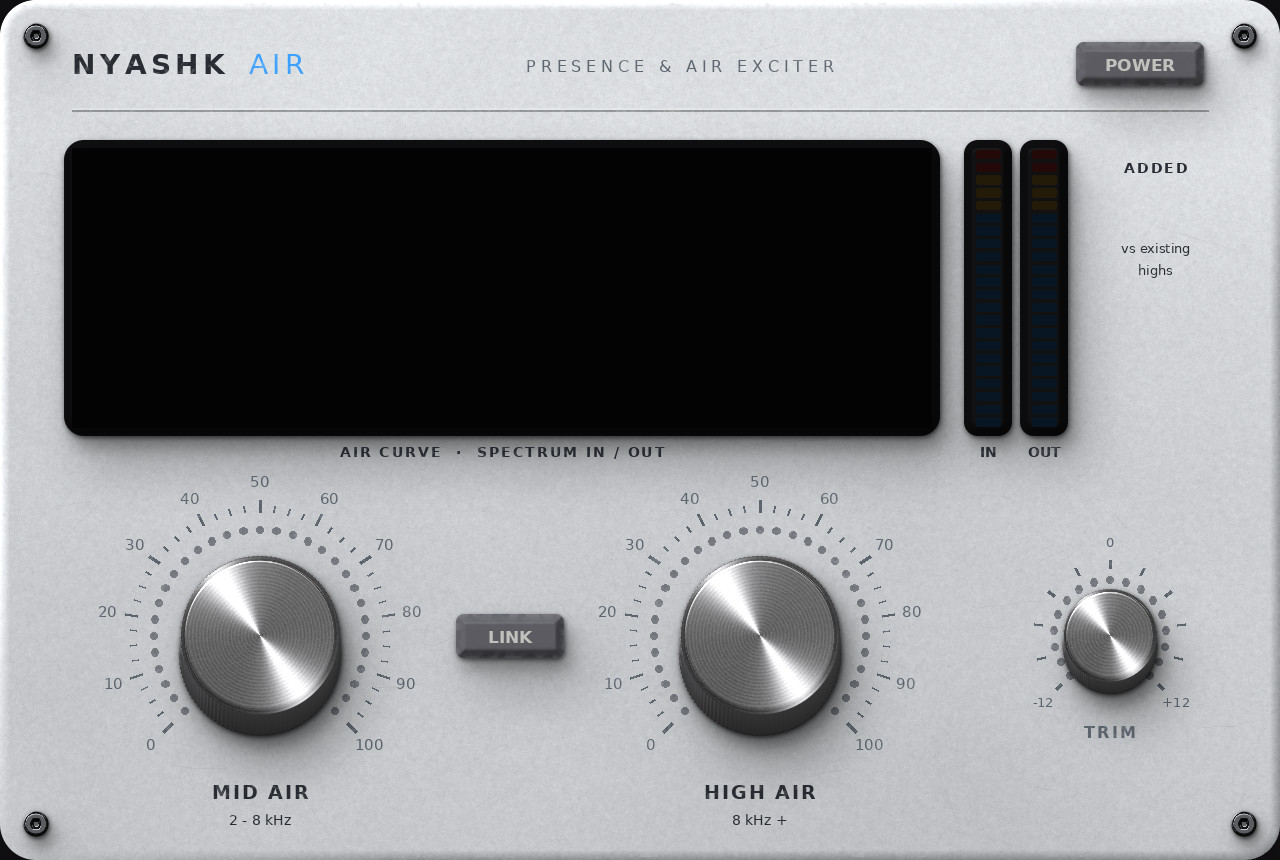
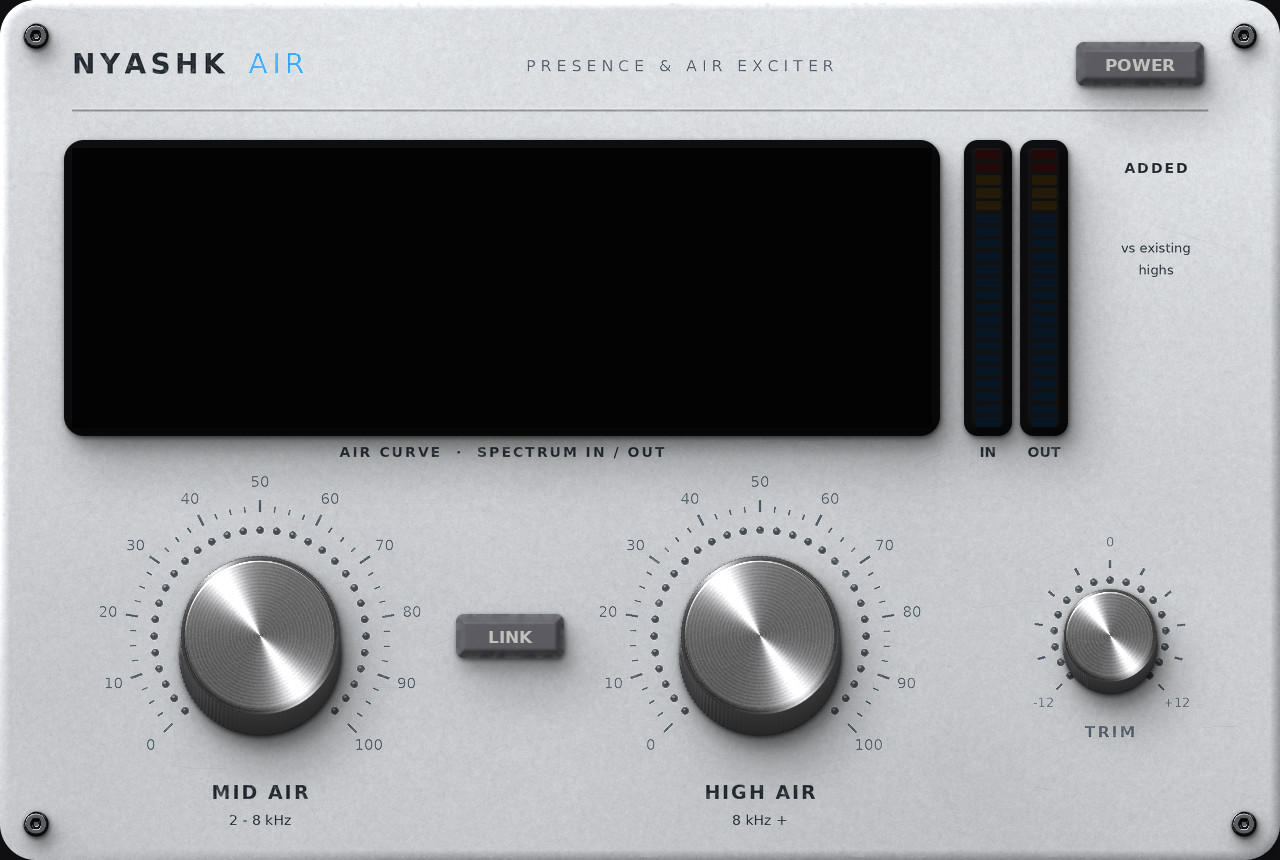
Smooth print, additive LED glow, animated lamps
Claude-Session: https://claude.ai/code/session_013jKKu2jZ6gVHt6eEoTXE3F

diff --git a/tools/hwrender.py b/tools/hwrender.py
@@ -234,7 +234,8 @@ class Panel:
         c = c * (1 - ew[..., None]) + np.array([0.78, 0.78, 0.8]) * ew[..., None]
         self.img = to_img(c * A[..., None] + np.array(bg) * (1 - A[..., None])).convert('RGBA')
         self.dr = ImageDraw.Draw(self.img)
-        self.ink_layer = Image.new('RGBA', (w, h)); self.idr = ImageDraw.Draw(self.ink_layer)
+        self.K = 2
+        self.ink_layer = Image.new('RGBA', (w * self.K, h * self.K)); self.idr = ImageDraw.Draw(self.ink_layer)
         for sx, sy in [(18, 18), (W - 18, 18), (18, H - 18), (W - 18, H - 18)]: self.put(hexscrew(14 * S), sx * S, sy * S)
     # ---- low level
     def refresh(self): self.dr = ImageDraw.Draw(self.img)
@@ -244,22 +245,28 @@ class Panel:
             self.img.alpha_composite(sh, (int(cx - sh.width / 2), int(cy - sh.height / 2)))
         self.img.alpha_composite(im, (int(cx - im.width / 2), int(cy - im.height / 2)))
     def text(self, t, x, y, size, col=None, bold=False, anchor='mm', sp=0):
-        col = col or self.ink; f = font(size * S, bold); d = self.idr; x *= S; y *= S
+        col = col or self.ink; Q = S * self.K; f = font(size * Q, bold); d = self.idr; x *= Q; y *= Q
         if sp:
-            wdt = sum(d.textlength(ch, font=f) for ch in t) + sp * S * (len(t) - 1)
+            wdt = sum(d.textlength(ch, font=f) for ch in t) + sp * Q * (len(t) - 1)
             xx = x - wdt / 2 if anchor[0] == 'm' else (x - wdt if anchor[0] == 'r' else x)
-            for ch in t: d.text((xx, y), ch, font=f, fill=col, anchor='l' + anchor[1]); xx += d.textlength(ch, font=f) + sp * S
+            for ch in t: d.text((xx, y), ch, font=f, fill=col, anchor='l' + anchor[1]); xx += d.textlength(ch, font=f) + sp * Q
         else: d.text((x, y), t, font=f, fill=col, anchor=anchor)
     def flush_ink(self):
         """silkscreen: slightly worn, with a hairline of shadow so it sits on the paint"""
-        ink = np.array(self.ink_layer).astype(np.float32) / 255
-        if ink[..., 3].max() == 0: return
+        big = np.array(self.ink_layer)
+        if big[..., 3].max() == 0: return
+        # premultiplied downsampling, so edges keep their colour
+        bf = big.astype(np.float32) / 255; bf[..., :3] *= bf[..., 3:4]
+        pm = to_img(np.clip(bf[..., :3], 0, 1), bf[..., 3]).resize((self.w, self.h), Image.LANCZOS)
+        ink = np.array(pm).astype(np.float32) / 255
+        ink[..., :3] = ink[..., :3] / np.maximum(ink[..., 3:4], 1e-4)
         wearm = np.clip(1 - self.wear * 0.25 * np.clip(noise(self.h, self.w, 1.0) * 0.6 + noise(self.h, self.w, 6) * 0.4 - 0.3, 0, 1), 0, 1)
         ink[..., 3] *= wearm
         self.img.alpha_composite(to_img(ink[..., :3], ink[..., 3]))
-        self.ink_layer = Image.new('RGBA', (self.w, self.h)); self.idr = ImageDraw.Draw(self.ink_layer); self.refresh()
+        self.ink_layer = Image.new('RGBA', (self.w * self.K, self.h * self.K)); self.idr = ImageDraw.Draw(self.ink_layer); self.refresh()
     def line(self, pts, col, width):
-        self.idr.line([(x * S, y * S) for x, y in pts], fill=col, width=int(width * S))
+        Q = S * self.K
+        self.idr.line([(x * Q, y * Q) for x, y in pts], fill=col, width=max(1, int(round(width * Q))))
     def inset(self, x0, y0, x1, y1, fill=(0.085, 0.085, 0.095), r=10):
         self.flush_ink()
         X0, Y0, X1, Y1 = x0 * S, y0 * S, x1 * S, y1 * S
@@ -301,8 +308,11 @@ class Panel:
         if led:
             for i in range(led['n']):
                 q = math.radians(-135 + 270 * i / (led['n'] - 1)); x, y = cx + led['r'] * math.sin(q), cy - led['r'] * math.cos(q)
-                self.idr.ellipse([(x - 1.8) * S, (y - 1.8) * S, (x + 1.8) * S, (y + 1.8) * S], fill=(22, 22, 24, 255) if not self.light else (120, 124, 130, 255))
-                self.idr.ellipse([(x - 1.0) * S, (y - 1.3) * S, (x + 0.6) * S, (y - 0.2) * S], fill=(60, 60, 64, 200) if not self.light else (90, 94, 100, 200))
+                Q = S * self.K
+                # an unlit LED: dark lens with a tiny specular dot
+                self.idr.ellipse([(x - 2.0) * Q, (y - 2.0) * Q, (x + 2.0) * Q, (y + 2.0) * Q], fill=(14, 14, 16, 255) if not self.light else (110, 114, 120, 255))
+                self.idr.ellipse([(x - 1.6) * Q, (y - 1.6) * Q, (x + 1.6) * Q, (y + 1.6) * Q], fill=(30, 30, 33, 255) if not self.light else (70, 74, 80, 255))
+                self.idr.ellipse([(x - 1.0) * Q, (y - 1.2) * Q, (x + 0.2) * Q, (y - 0.3) * Q], fill=(110, 110, 115, 150))
         self.flush_ink()
         im, ptr = knob_image(kind, D * S, cap)
         self.put(im, cx * S, cy * S)
@@ -372,8 +382,8 @@ class Panel:
         assets = os.path.join(repo, plugin_dir, 'assets', 'hw'); os.makedirs(assets, exist_ok=True)
         self.img.convert('RGB').save(os.path.join(assets, 'bg.jpg'), quality=90, optimize=True, subsampling=0)
         for name, im in self.overlays.items(): im.save(os.path.join(assets, name + '.png'), optimize=True)
-        glow = np.zeros((32 * S, 32 * S)); a, d, _ = disc(32 * S, 1); glow = np.exp(-(d / (6 * S)) ** 2)
-        to_img(np.ones((32 * S, 32 * S, 3)), glow).save(os.path.join(assets, 'glow.png'))
+        a, d, _ = disc(32 * S, 1); glow = 0.65 * np.exp(-(d / (3.5 * S)) ** 2) + 0.35 * np.exp(-(d / (8 * S)) ** 2); glow *= np.clip((16 * S - d) / (3 * S), 0, 1)
+        to_img(np.ones((32 * S, 32 * S, 3)), glow / glow.max()).save(os.path.join(assets, 'glow.png'))
         c = lambda t: '[' + ','.join(str(int(v)) for v in t) + ']'
         f = lambda v: f'{float(v):.2f}'
         out = ['//! Generated by tools/render_ui.py: positions of the controls on the rendered faceplate.', '#![allow(dead_code)]',

diff --git a/plugins/nyashkair/src/hw.rs b/plugins/nyashkair/src/hw.rs
@@ -118,15 +118,21 @@ impl Hw {
     pub fn background(&self, p: &Painter, w: f32, h: f32) {
         self.image(p, "bg", Rect::from_min_size(self.o, Vec2::new(w, h)), Color32::WHITE);
     }
-    /// soft glowing LED dot (glow sprite + bright core)
+    /// soft glowing LED dot: additive halo + bloom (premultiplied colour with zero alpha adds
+    /// light instead of covering), then the lens itself
     pub fn led(&self, p: &Painter, c: Pos2, col: Color32, size: f32, level: f32) {
         if level <= 0.01 {
             return;
         }
-        let g = Color32::from_rgba_unmultiplied(col.r(), col.g(), col.b(), (90.0 * level) as u8);
-        self.image(p, "glow", Rect::from_center_size(c, Vec2::splat(size * 4.0)), g);
-        p.circle_filled(c, size * 0.55, col.gamma_multiply(0.6 + 0.4 * level));
-        p.circle_filled(c + Vec2::new(-size * 0.12, -size * 0.15), size * 0.25, Color32::from_rgba_unmultiplied(255, 255, 240, (160.0 * level) as u8));
+        let add = |k: f32| {
+            let m = (k * level).min(1.0);
+            Color32::from_rgba_premultiplied((col.r() as f32 * m) as u8, (col.g() as f32 * m) as u8, (col.b() as f32 * m) as u8, 0)
+        };
+        self.image(p, "glow", Rect::from_center_size(c, Vec2::splat(size * 7.0)), add(0.22));
+        self.image(p, "glow", Rect::from_center_size(c, Vec2::splat(size * 3.2)), add(0.55));
+        p.circle_filled(c, size * 0.62, col.gamma_multiply(0.35 + 0.65 * level));
+        let hot = (200.0 * level) as u8;
+        p.circle_filled(c, size * 0.30, Color32::from_rgba_unmultiplied(255, 250, 235, hot));
     }
 }
 
@@ -187,7 +193,10 @@ pub fn knob<P: Param>(ui: &mut Ui, hw: &Hw, setter: &ParamSetter, p: &P, k: &Kno
     }
     let norm = if changed { newv } else { p.unmodulated_normalized_value() };
     let painter = ui.painter();
-    // LED ring
+    // LED ring: follows the value with a short glide (cheap: one animated float per knob)
+    let shown = ui.ctx().animate_value_with_time(id.with("led"), norm, 0.07);
+    let norm_ptr = norm;
+    let norm = shown;
     if k.led_n > 1 {
         let from = if k.bip { 0.5 } else { 0.0 };
         let (lo, hi) = if norm < from { (norm, from) } else { (from, norm) };
@@ -203,16 +212,18 @@ pub fn knob<P: Param>(ui: &mut Ui, hw: &Hw, setter: &ParamSetter, p: &P, k: &Kno
             } else {
                 0.0
             };
-            hw.led(painter, pt, accent, 2.8, lvl);
+            hw.led(painter, pt, accent, 3.0, lvl);
         }
     }
     // hover / grab: a faint rim of light around the knob
-    if resp.hovered() || resp.dragged() {
-        let al = if resp.dragged() { 70 } else { 40 };
-        painter.circle_stroke(c, k.r * 0.86, Stroke::new(1.2_f32, Color32::from_white_alpha(al)));
+    let hov = ui.ctx().animate_bool_with_time(id.with("hov"), resp.hovered() || resp.dragged(), 0.15);
+    if hov > 0.01 {
+        let al = if resp.dragged() { 1.0 } else { 0.6 };
+        let a8 = (60.0 * hov * al) as u8;
+        painter.circle_stroke(c, k.r * 0.86, Stroke::new(1.2_f32, Color32::from_rgba_premultiplied(a8, a8, a8, 0)));
     }
     // pointer
-    let a = (-135.0 + 270.0 * norm).to_radians();
+    let a = (-135.0 + 270.0 * norm_ptr).to_radians();
     let dir = Vec2::new(a.sin(), -a.cos());
     let col = Color32::from_rgba_unmultiplied(k.ptr_col[0], k.ptr_col[1], k.ptr_col[2], k.ptr_col[3]);
     let seg = |r0: f32, r1: f32| [c + dir * r0, c + dir * r1];
@@ -253,7 +264,7 @@ pub fn knob<P: Param>(ui: &mut Ui, hw: &Hw, setter: &ParamSetter, p: &P, k: &Kno
             ui.data_mut(|d| d.insert_temp(edit_id, buf));
         }
     } else if resp.hovered() || resp.dragged() {
-        let txt = p.normalized_value_to_string(norm, true);
+        let txt = p.normalized_value_to_string(norm_ptr, true);
         bubble(ui.painter(), vr.center(), &txt);
         if !tip.is_empty() && !resp.dragged() {
             resp.on_hover_text(tip);
@@ -279,9 +290,11 @@ pub fn button(ui: &mut Ui, hw: &Hw, b: &BtnL, on: bool, tip: &str) -> bool {
     let resp = ui.interact(r, egui::Id::new(("hwbtn", b.id)), Sense::click());
     let p = ui.painter();
     let pressed = resp.is_pointer_button_down_on();
-    if on {
+    // the lamp behind the cap warms up / fades out instead of snapping
+    let lit = ui.ctx().animate_bool_with_time(egui::Id::new(("hwbtn_lit", b.id)), on, 0.16);
+    if lit > 0.005 {
         let tr = Rect::from_center_size(r.center() + Vec2::new(0.0, if pressed { 0.6 } else { 0.0 }), Vec2::new(b.tex_size.0, b.tex_size.1));
-        hw.image(p, b.tex, tr, Color32::WHITE);
+        hw.image(p, b.tex, tr, Color32::WHITE.gamma_multiply(lit));
     }
     if pressed {
         p.rect_filled(r.shrink(1.0), 4.0, Color32::from_black_alpha(50));
@@ -328,7 +341,7 @@ pub fn ladder(p: &Painter, hw: &Hw, l: &LadderL, level: f32, down: bool) {
         let col = l.colors.iter().rev().find(|(f, _)| t >= *f).map(|(_, c)| c32(*c)).unwrap_or(Color32::GREEN);
         let y1 = r.bottom() - k as f32 * seg - 1.2;
         let sr = Rect::from_min_max(Pos2::new(r.left() + 2.0, y1 - seg + 2.2), Pos2::new(r.right() - 2.0, y1));
-        hw.image(p, "glow", sr.expand(5.0), Color32::from_rgba_unmultiplied(col.r(), col.g(), col.b(), 70));
+        hw.image(p, "glow", sr.expand(6.0), Color32::from_rgba_premultiplied(col.r() / 4, col.g() / 4, col.b() / 4, 0));
         p.rect_filled(sr, 1.0, col);
     }
 }

diff --git a/RELEASE_NOTES.md b/RELEASE_NOTES.md
@@ -1,3 +1,10 @@
+## NyashkAir 1.0.9
+
+- Шкали, риски, LED і підписи тепер згладжені (малюються в 4 рази більшими й зменшуються), без кривих країв.
+- Світіння адитивне, як у справжніх LED: м'який ореол і яскраве ядро.
+- Плавні анімації: кнопки загоряються й гаснуть, LED-кільця ковзають за ручкою, обідок навколо ручки плавно проявляється.
+- Оптимізація: оновлення екрана 30 разів на секунду (Opto було 60), анімації не додають зайвих перемальовувань.
+
 ## NyashkAir 1.0.8
 
 - Деталі дизайну: стрілка ручки починається від краю ковпачка (як справжня гравіровка), бокові стінки металевих ручок ловлять світло, навколо ручки, яку крутиш або на яку наводиш, світиться тонкий обідок, LED-кільця без зайвих рисок на маленьких ручках, мітки пікового рівня на LED-шкалах, більші підписи.
